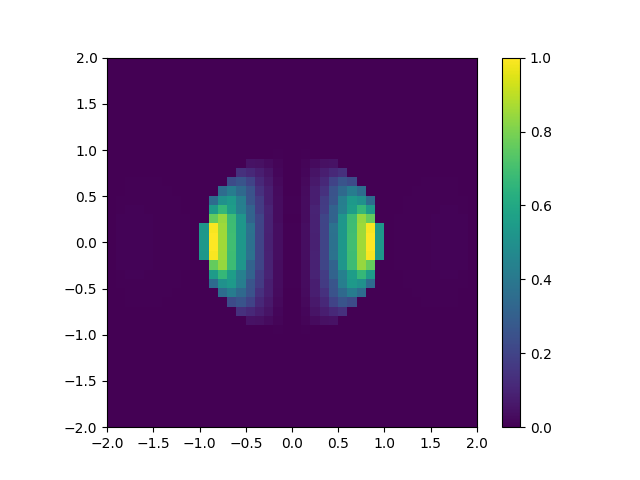
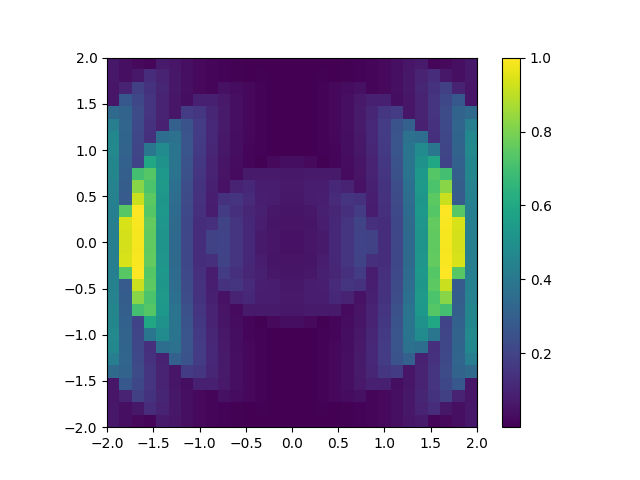
smallchange

Changed region(s): [[0.1562, 0.125, 0.4375, 0.9062], [0.5, 0.125, 0.75, 0.9062], [0.8125, 0.875, 0.875, 0.9062]]

diff --git a/PEM_Data/PEM_Analytical.py b/PEM_Data/PEM_Analytical.py
@@ -66,9 +66,9 @@ def GBF_Zeros(k_array, quiver_energy, quiver_radius, Ip, omega):
 def PAD_2D(quiver_energy, quiver_radius, omega, polarization):
 
 
-    x_momentum = np.linspace(-2.0 , 2.0, 80)
-    y_momentum = np.linspace(-2.0 , 2.0, 80)
-    z_momentum = np.linspace(-2.0 , 2.0, 80)
+    x_momentum = np.linspace(-2.0 , 2.0, 30)
+    y_momentum = np.linspace(-2.0 , 2.0, 30)
+    z_momentum = np.linspace(-2.0 , 2.0, 30)
 
     
     pad_value = np.zeros((z_momentum.size,x_momentum.size))
@@ -76,9 +76,9 @@ def PAD_2D(quiver_energy, quiver_radius, omega, polarization):
      
     for i, kx in enumerate(x_momentum):
         print(round(kx,3))
-        for j, kz in enumerate(z_momentum):
+        for j, ky in enumerate(y_momentum):
             pad_value_temp = 0.0
-            for l, ky in enumerate(y_momentum):
+            for l, kz in enumerate(z_momentum):
                 
                 k = np.sqrt(kx*kx + ky*ky + kz*kz)
                 N = Calculate_NPA(k, quiver_energy, Ip, omega)
@@ -89,15 +89,15 @@ def PAD_2D(quiver_energy, quiver_radius, omega, polarization):
                 
                 pad_value_temp += k*pow(GBF(N, np.dot(quiver_vector, k_vector), quiver_energy/(2*omega)),2)*pow(quiver_energy - N*omega ,2)*pow(np.cos(np.dot(k_vector, mole_orientation)), 2)
 
-                pad_value_save[i,j,l] = k*pow(GBF(N, np.dot(quiver_vector, k_vector), quiver_energy/(2*omega)),2)*pow(quiver_energy - N*omega ,2)*pow(np.cos(np.dot(k_vector, mole_orientation)), 2)
+                # pad_value_save[i,j,l] = k*pow(GBF(N, np.dot(quiver_vector, k_vector), quiver_energy/(2*omega)),2)*pow(quiver_energy - N*omega ,2)*pow(np.cos(np.dot(k_vector, mole_orientation)), 2)
                 
             pad_value[j, i] += pad_value_temp
     
-    pad_value_save = pad_value_save / pad_value_save.max() 
-    arr_reshaped = pad_value_save.reshape(pad_value_save.shape[0], -1)
-    np.savetxt("Ana_X_B_One_Photon.txt", arr_reshaped)
+    # pad_value_save = pad_value_save / pad_value_save.max() 
+    # arr_reshaped = pad_value_save.reshape(pad_value_save.shape[0], -1)
+    # np.savetxt("Ana_X_B_One_Photon.txt", arr_reshaped)
     
-    exit()
+    # exit()
     
     pad_value = pad_value / pad_value.max()
     pos = plt.imshow(pad_value, extent=[-2.0, 2.0, -2.0, 2.0])#, norm=LogNorm(vmin=1e-3, vmax=1))
@@ -109,9 +109,9 @@ if __name__=="__main__":
     polarization = np.array([1,0,0])
     ellipticity = 0.
     ellipticity_vector = np.array([0,1,0])
-    intensity = 1e14
-    omega = 1.5
-    Ip = 1.0
+    intensity = 1e17
+    omega = 1.4
+    Ip = 2.0
     quiver_radius, quiver_energy = Calculate_Parameters(intensity, omega)
     PAD_2D(quiver_energy, quiver_radius, omega, polarization)
     

diff --git a/PEM_Data/Photo_Electrom_Momentum_Plotter.py b/PEM_Data/Photo_Electrom_Momentum_Plotter.py
@@ -69,6 +69,7 @@ def PEM_Data_Plotter(PEM_data, X_lim = (-2,2,80), Y_lim = (-2,2,80), Z_lim = (-2
         opacity=0.1, # needs to be small to see through all surfaces
         surface_count=17, # needs to be a large number for good volume rendering
         ))
+    fig.update_layout(height=600, width=600)
     fig.show()
 
 def PEM_Data_Plotter_Multiple(PEM_data_list, X_lim = (-2,2,80), Y_lim = (-2,2,80), Z_lim = (-2,2,80)):
